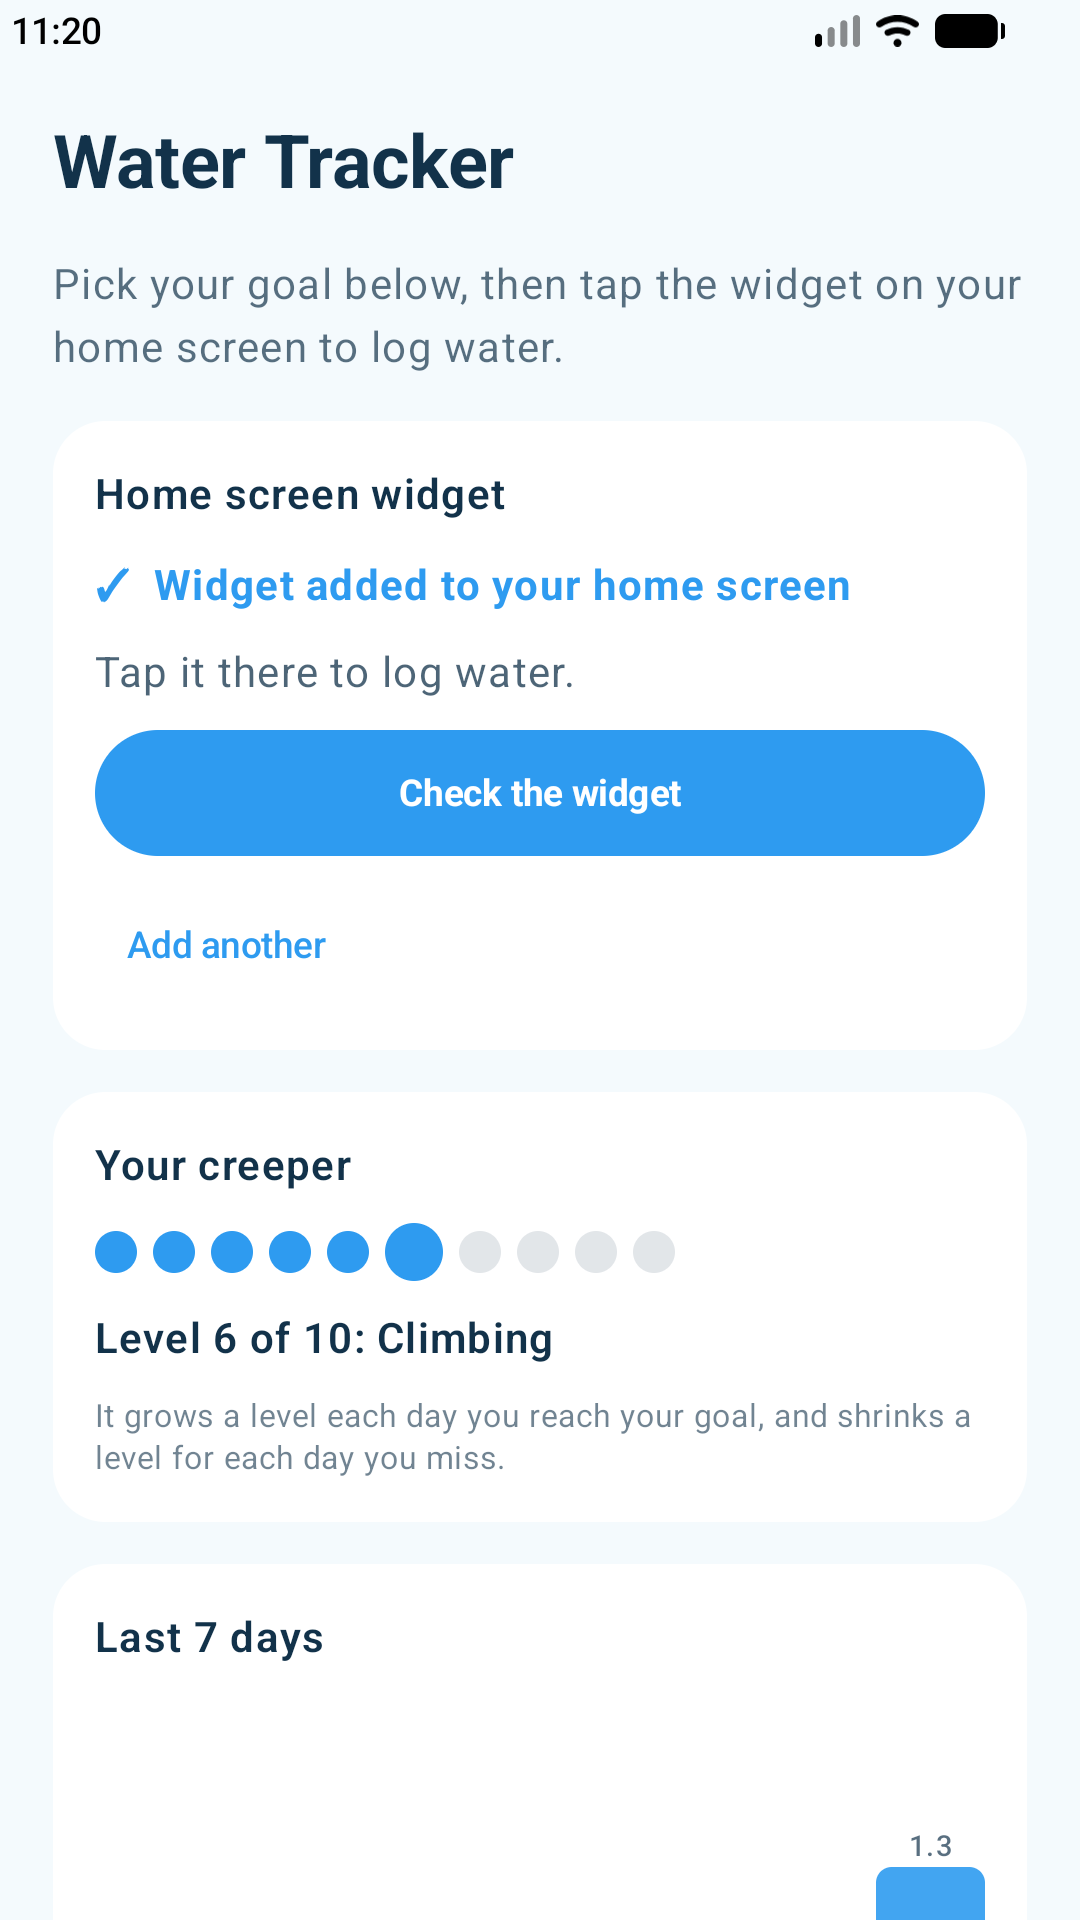
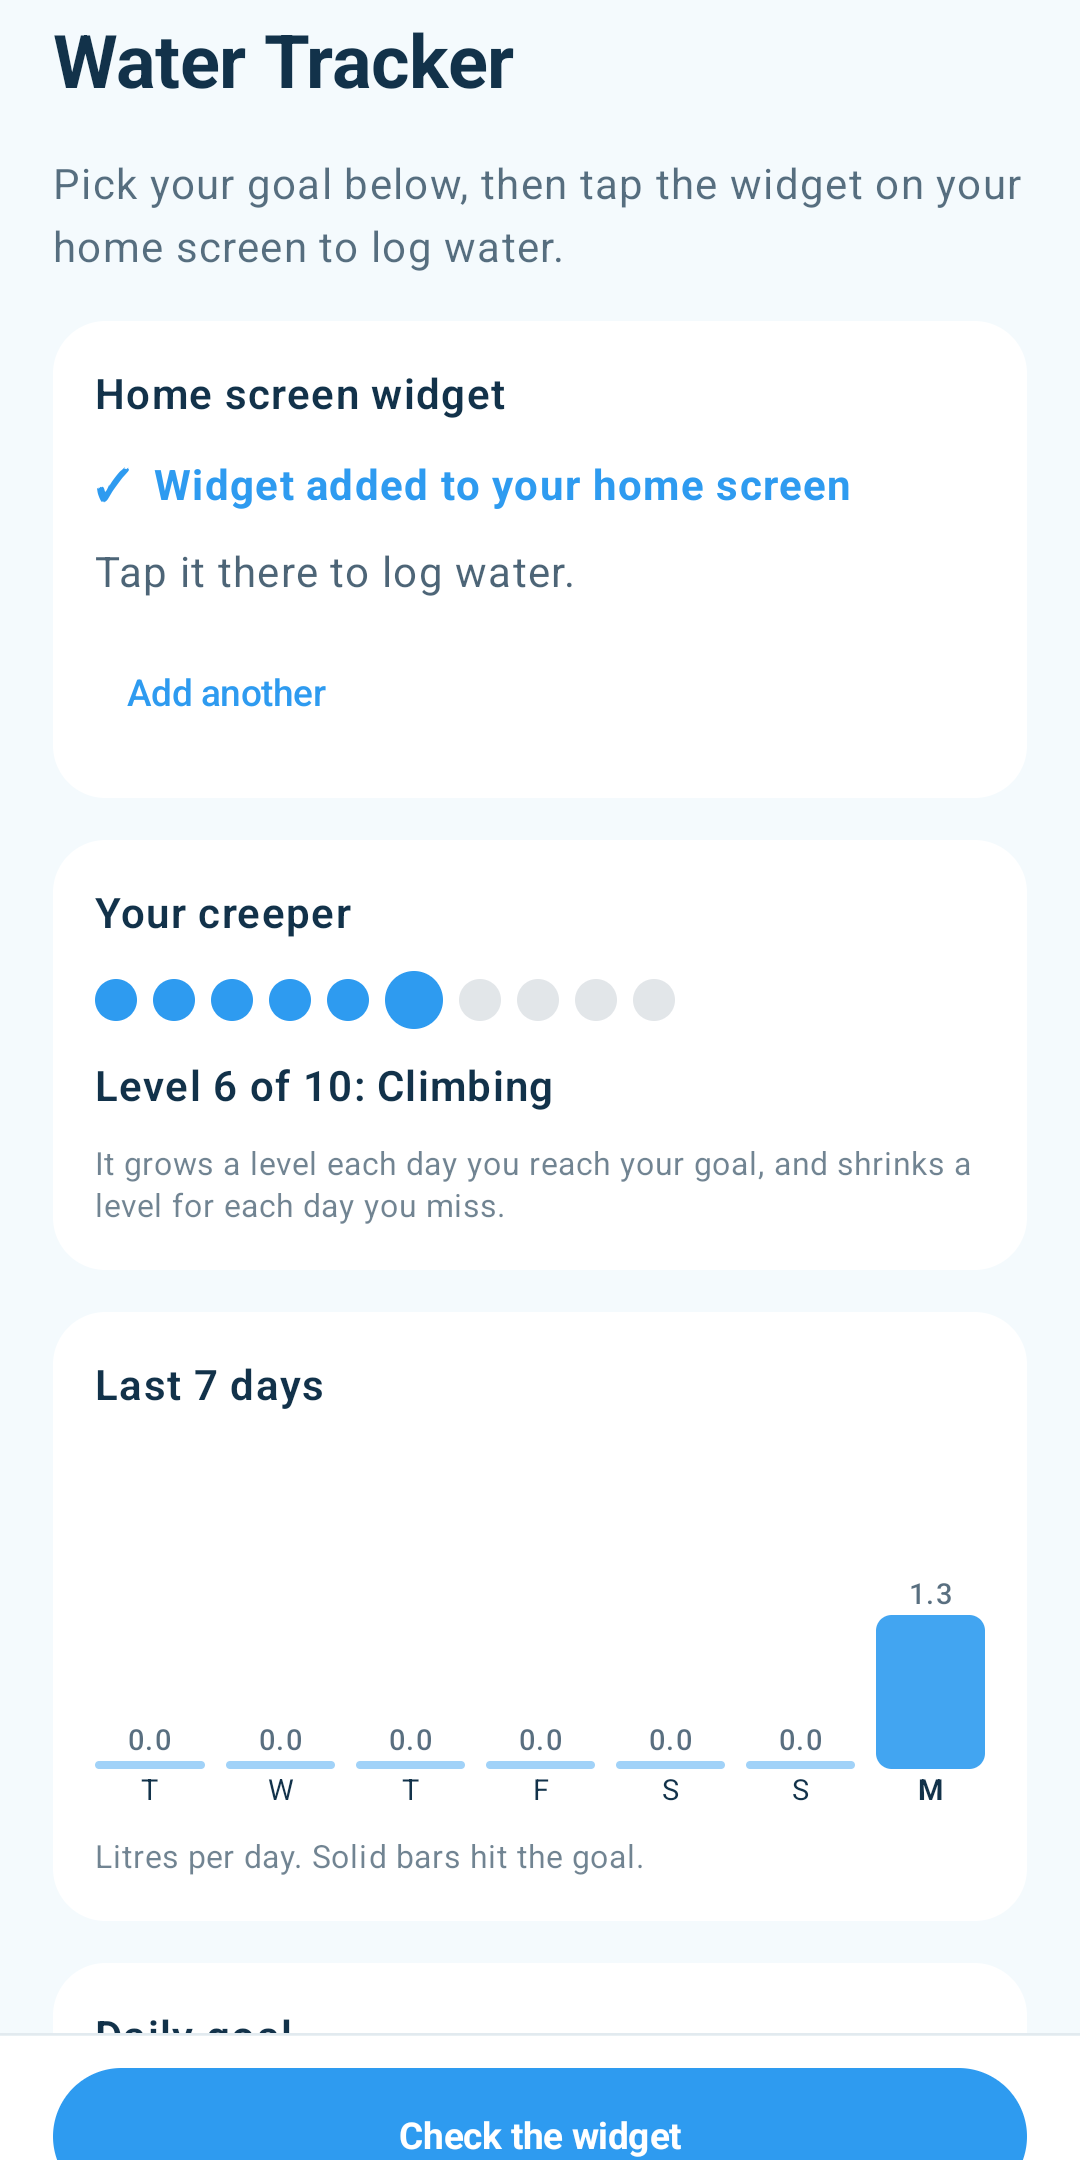
Pin the Check the widget button to the bottom of the settings screen; bump to version code 8 (1.0.7)

diff --git a/v1/WaterTracker/app/src/main/java/com/developerjabberai/watertracker/ui/ConfigScreen.kt b/v1/WaterTracker/app/src/main/java/com/developerjabberai/watertracker/ui/ConfigScreen.kt
@@ -21,6 +21,7 @@ import androidx.compose.foundation.layout.Arrangement
 import androidx.compose.foundation.layout.Box
 import androidx.compose.foundation.layout.Column
 import androidx.compose.foundation.layout.Row
+import androidx.compose.foundation.layout.fillMaxSize
 import androidx.compose.foundation.layout.fillMaxWidth
 import androidx.compose.foundation.layout.height
 import androidx.compose.foundation.layout.padding
@@ -36,6 +37,7 @@ import androidx.compose.material3.Card
 import androidx.compose.material3.CardDefaults
 import androidx.compose.material3.FilterChipDefaults
 import androidx.compose.material3.FilterChip
+import androidx.compose.material3.HorizontalDivider
 import androidx.compose.material3.MaterialTheme
 import androidx.compose.material3.OutlinedButton
 import androidx.compose.material3.Text
@@ -71,44 +73,30 @@ fun ConfigScreen(resumeTick: Int = 0) {
 
     fun changed() = WaterWidgetProvider.refresh(context)
 
+    // Re-checked every time the app comes back to the front, so it stays right after adding or removing one.
+    val widgets = remember(resumeTick) { widgetCount(context) }
+
+    Column(Modifier.fillMaxSize().background(Color(0xFFF4FAFD)).statusBarsPadding().navigationBarsPadding()) {
     Column(
-        Modifier
-            .background(Color(0xFFF4FAFD))
-            .statusBarsPadding()
-            .navigationBarsPadding()
-            .verticalScroll(rememberScrollState())
-            .padding(20.dp),
+        Modifier.weight(1f).verticalScroll(rememberScrollState()).padding(20.dp),
         verticalArrangement = Arrangement.spacedBy(16.dp),
     ) {
         Text("Water Tracker", style = MaterialTheme.typography.headlineMedium, fontWeight = FontWeight.Bold, color = Ink)
         Text("Pick your goal below, then tap the widget on your home screen to log water.", color = Ink.copy(alpha = 0.7f))
 
         Section("Home screen widget") {
-            // Re-checked every time the app comes back to the front, so it stays right after adding or removing one.
-            val widgets = remember(resumeTick) { widgetCount(context) }
             if (widgets > 0) {
                 Text(
                     if (widgets == 1) "\u2713  Widget added to your home screen" else "\u2713  $widgets widgets on your home screen",
                     color = Blue, fontWeight = FontWeight.Bold,
                 )
                 Text("Tap it there to log water.", color = Ink.copy(alpha = 0.75f))
-                Button(
-                    onClick = { goToWidget(context) },
-                    modifier = Modifier.fillMaxWidth().height(48.dp),
-                    colors = ButtonDefaults.buttonColors(containerColor = Blue),
-                ) { Text("Check the widget", fontWeight = FontWeight.Bold) }
                 if (canPin(context)) {
                     TextButton(onClick = { requestPin(context) }) { Text("Add another", color = Blue) }
                 }
             } else {
                 Text("The widget is where you log water. Add it to your home screen to start.", color = Ink.copy(alpha = 0.75f))
-                if (canPin(context)) {
-                    Button(
-                        onClick = { requestPin(context) },
-                        modifier = Modifier.fillMaxWidth().height(48.dp),
-                        colors = ButtonDefaults.buttonColors(containerColor = Blue),
-                    ) { Text("Add widget to home screen", fontWeight = FontWeight.Bold) }
-                } else {
+                if (!canPin(context)) {
                     Hint("Long-press an empty spot on your home screen, tap Widgets, then drag out Water Tracker.")
                 }
             }
@@ -139,6 +127,21 @@ fun ConfigScreen(resumeTick: Int = 0) {
             TapPicker(tap) { tap = it; store.tapMl = it }
             Hint("A glass is ${WaterStore.GLASS_ML} ml")
         }
+    }
+
+    // The main action, always in reach at the bottom of the screen.
+    if (widgets > 0 || canPin(context)) {
+        HorizontalDivider(color = Ink.copy(alpha = 0.08f))
+        Box(Modifier.fillMaxWidth().background(Color.White).padding(horizontal = 20.dp, vertical = 12.dp)) {
+            Button(
+                onClick = { if (widgets > 0) goToWidget(context) else requestPin(context) },
+                modifier = Modifier.fillMaxWidth().height(52.dp),
+                colors = ButtonDefaults.buttonColors(containerColor = Blue),
+            ) {
+                Text(if (widgets > 0) "Check the widget" else "Add widget to home screen", fontWeight = FontWeight.Bold)
+            }
+        }
+    }
     }
 }
 

diff --git a/v1/store/play-console-answers.md b/v1/store/play-console-answers.md
@@ -1,6 +1,6 @@
 # Google Play Console: answers to copy in
 
-App ID `com.developerjabberai.watertracker` · Title "Widget: Water Tracker & Remind" (app name on the phone: "Water Tracker") · version 1.0.6 (code 7) · signed AAB at
+App ID `com.developerjabberai.watertracker` · Title "Widget: Water Tracker & Remind" (app name on the phone: "Water Tracker") · version 1.0.7 (code 8) · signed AAB at
 `v1/WaterTracker/app/build/outputs/bundle/release/app-release.aab`
 
 ## 1. Create the app
